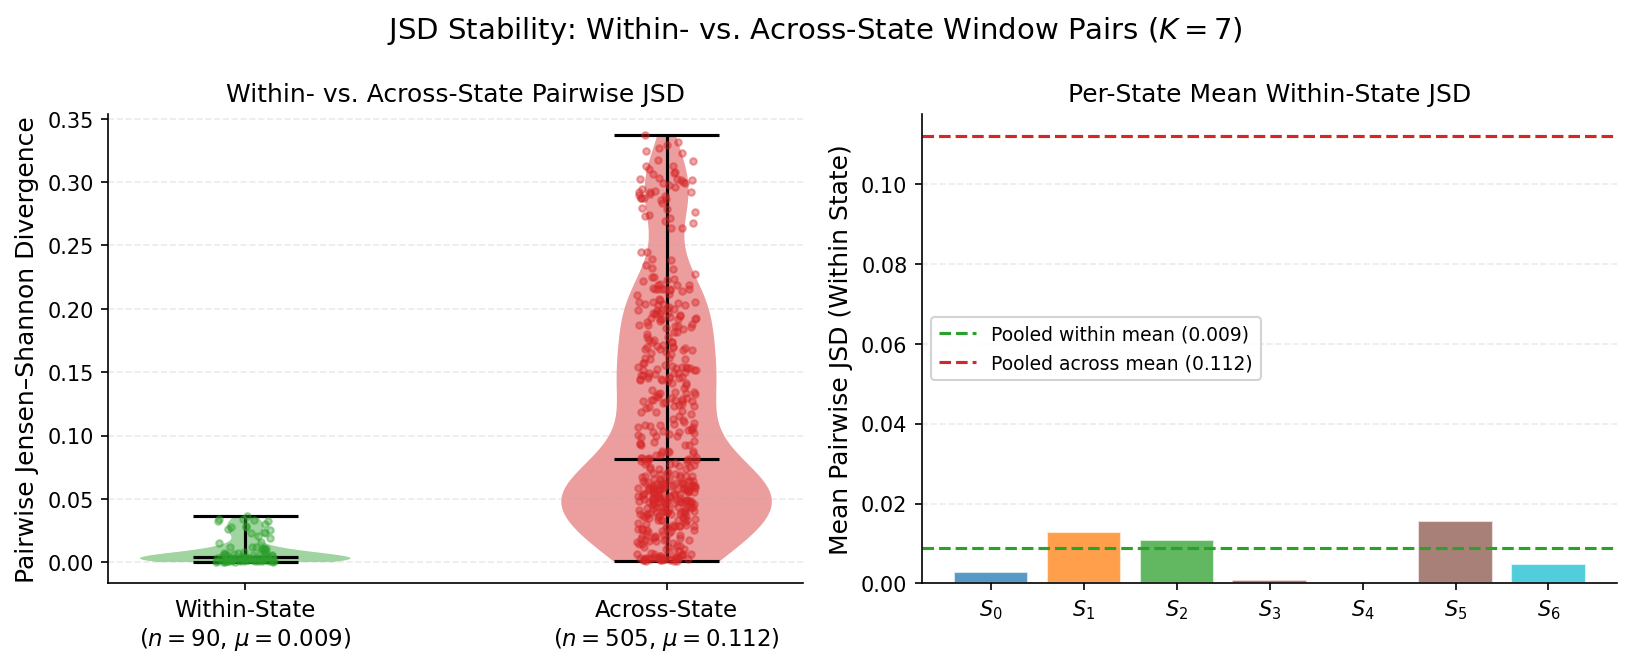
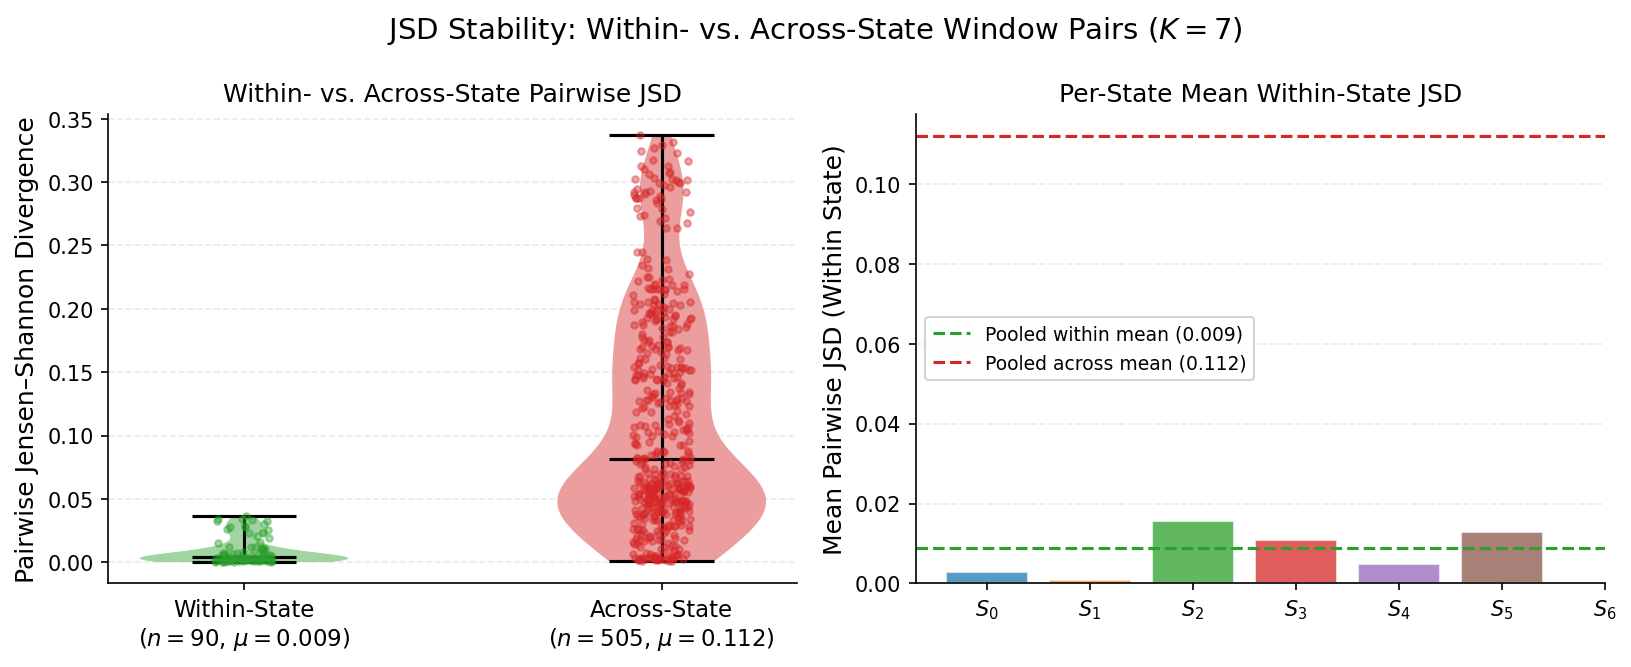
jsd stability figures

diff --git a/src/generate_all_figures.py b/src/generate_all_figures.py
@@ -521,7 +521,7 @@ def figure_pca_sanity(pca_npz, out_dir, dpi):
 #     k{k}/plot_jsd_stability_null.png — permutation null + observed Δμ
 # ═════════════════════════════════════════════════════════════════════════════
 
-def figure_jsd_stability(k, jsd_dir, k_out, dpi):
+def figure_jsd_stability(k, jsd_dir, k_out, dpi, state_seq=None):
     banner(f"  JSD stability figures  (k={k})")
 
     src_dir    = os.path.join(jsd_dir, f"k{k}")
@@ -539,7 +539,27 @@ def figure_jsd_stability(k, jsd_dir, k_out, dpi):
     within_mean = float(df.loc[df["group"] == "within-state", "mean_jsd"].iloc[0])
     across_mean = float(df.loc[df["group"] == "across-state", "mean_jsd"].iloc[0])
 
-    state_rows  = df[df["group"].str.match(r"^state_\d+_within$")]
+    import re
+    state_rows = df[df["group"].str.match(r"^state_\d+_within$")].copy()
+    state_rows["native_id"] = (
+        state_rows["group"].str.extract(r"state_(\d+)_within")[0].astype(int)
+    )
+
+    # Build chronological relabeling (native HMM id → 0-based chron index)
+    if state_seq is not None:
+        relabel = {}
+        for s in state_seq:
+            if s not in relabel:
+                relabel[s] = len(relabel)
+        state_rows["chron_id"] = state_rows["native_id"].map(relabel)
+        state_rows = state_rows.sort_values("chron_id").reset_index(drop=True)
+        x_labels = [f"$S_{{{int(row.chron_id)}}}$"
+                    for _, row in state_rows.iterrows()]
+    else:
+        state_rows = state_rows.sort_values("native_id").reset_index(drop=True)
+        x_labels = [f"$S_{{{int(row.native_id)}}}$"
+                    for _, row in state_rows.iterrows()]
+
     k_inferred  = len(state_rows)
     state_means = state_rows["mean_jsd"].values.astype(float)
 
@@ -591,7 +611,7 @@ def figure_jsd_stability(k, jsd_dir, k_out, dpi):
     ax2.axhline(across_mean, color="#d62728", ls="--", lw=1.5,
                 label=f"Pooled across mean ({across_mean:.3f})")
     ax2.set_xticks(range(k_inferred))
-    ax2.set_xticklabels([f"$S_{s}$" for s in range(k_inferred)], fontsize=10)
+    ax2.set_xticklabels(x_labels, fontsize=10)
     ax2.set_ylabel("Mean Pairwise JSD (Within State)", fontsize=12)
     ax2.set_title("Per-State Mean Within-State JSD", fontsize=12)
     ax2.legend(fontsize=9, framealpha=0.85)
@@ -828,7 +848,7 @@ def _timeline_with_classes(dec, manifest_path, k, out_path, dpi):
     seen_order = {}
     for state, _, _ in runs:
         if state not in seen_order:
-            seen_order[state] = len(seen_order) + 1
+            seen_order[state] = len(seen_order)
 
     def chron_label(state):
         return seen_order[state]
@@ -860,7 +880,7 @@ def _timeline_with_classes(dec, manifest_path, k, out_path, dpi):
         right = run_right(e_idx)
         label = chron_label(state)
         ax_bar.barh(0, right - left, left=left, height=1,
-                    color=plt.cm.tab10.colors[(label - 1) % 10], alpha=0.9, linewidth=0)
+                    color=plt.cm.tab10.colors[label % 10], alpha=0.9, linewidth=0)
         mid = (left + right) / 2
         ax_bar.text(mid, 0, f"{label}", ha="center", va="center",
                     fontsize=8, fontweight="bold", color="white")
@@ -1486,7 +1506,7 @@ def run_per_k(k, hmm_dir, perf_dir, wa_dir, manifest_path, out_dir, eq_dir, corr
     # State-pair correlation figures (reads pre-computed data from state_pair_correlation.py)
     figure_state_pair_correlation(k, corr_dir, k_out, dpi)
     # JSD stability figures (reads pre-computed data from jsd_stability_analysis.py)
-    figure_jsd_stability(k, jsd_dir, k_out, dpi)
+    figure_jsd_stability(k, jsd_dir, k_out, dpi, state_seq=state_seq)
 
 # ═════════════════════════════════════════════════════════════════════════════
 # MAIN

diff --git a/src/jsd_stability_analysis.py b/src/jsd_stability_analysis.py
@@ -146,7 +146,7 @@ def main():
     np.save(os.path.join(args.output_dir, "jsd_across.npy"), across)
 
     # ── Side-by-side: violin + per-state bars ─────────────────────────────────
-    fig, axes = plt.subplots(1, 2, figsize=(11, 4.5))
+    fig, axes = plt.subplots(1, 2, figsize=(6, 2.5))
 
     # Left: violin comparison
     ax = axes[0]
@@ -165,10 +165,10 @@ def main():
     ax.set_xticklabels(
         [f"Within-State\n($n={len(within)}$, $\\mu={within.mean():.3f}$)",
          f"Across-State\n($n={len(across)}$, $\\mu={across.mean():.3f}$)"],
-        fontsize=11,
+        fontsize=12,
     )
-    ax.set_ylabel("Pairwise Jensen\u2013Shannon Divergence", fontsize=12)
-    ax.set_title("Within- vs. Across-State Pairwise JSD", fontsize=12)
+    ax.set_ylabel("Pairwise Jensen\u2013Shannon Divergence", fontsize=13)
+    ax.set_title("Within- vs. Across-State Pairwise JSD", fontsize=13)
     ax.grid(True, axis="y", alpha=0.25, ls="--")
     ax.spines[["top", "right"]].set_visible(False)
 
@@ -190,16 +190,16 @@ def main():
     ax2.axhline(across.mean(), color="#d62728", ls="--", lw=1.5,
                 label=f"Pooled across mean ({across.mean():.3f})")
     ax2.set_xticks(range(k))
-    ax2.set_xticklabels(state_labels, fontsize=10)
-    ax2.set_ylabel("Mean Pairwise JSD (Within State)", fontsize=12)
-    ax2.set_title("Per-State Mean Within-State JSD", fontsize=12)
-    ax2.legend(fontsize=9, framealpha=0.85)
+    ax2.set_xticklabels(state_labels, fontsize=11)
+    ax2.set_ylabel("Mean Pairwise JSD (Within State)", fontsize=13)
+    ax2.set_title("Per-State Mean Within-State JSD", fontsize=13)
+    ax2.legend(fontsize=10, framealpha=0.85)
     ax2.grid(True, axis="y", alpha=0.25, ls="--")
     ax2.spines[["top", "right"]].set_visible(False)
 
     fig.suptitle(
         f"JSD Stability: Within- vs. Across-State Window Pairs ($K={k}$)",
-        fontsize=14,
+        fontsize=15,
     )
     fig.tight_layout()
     plot_path = os.path.join(args.output_dir, "plot_jsd_stability.png")